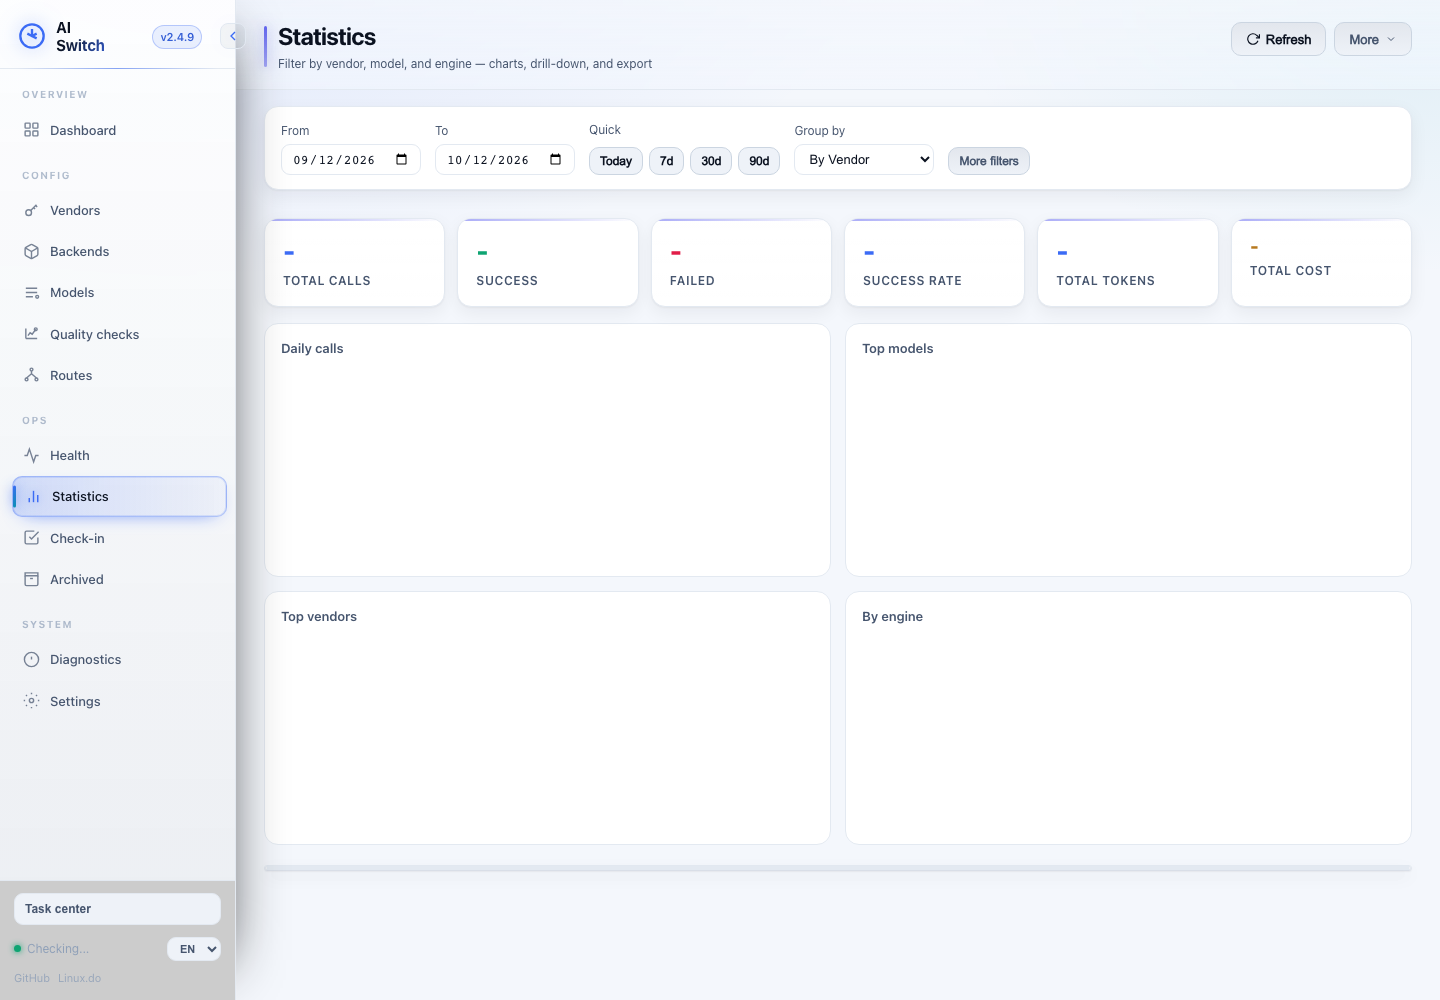
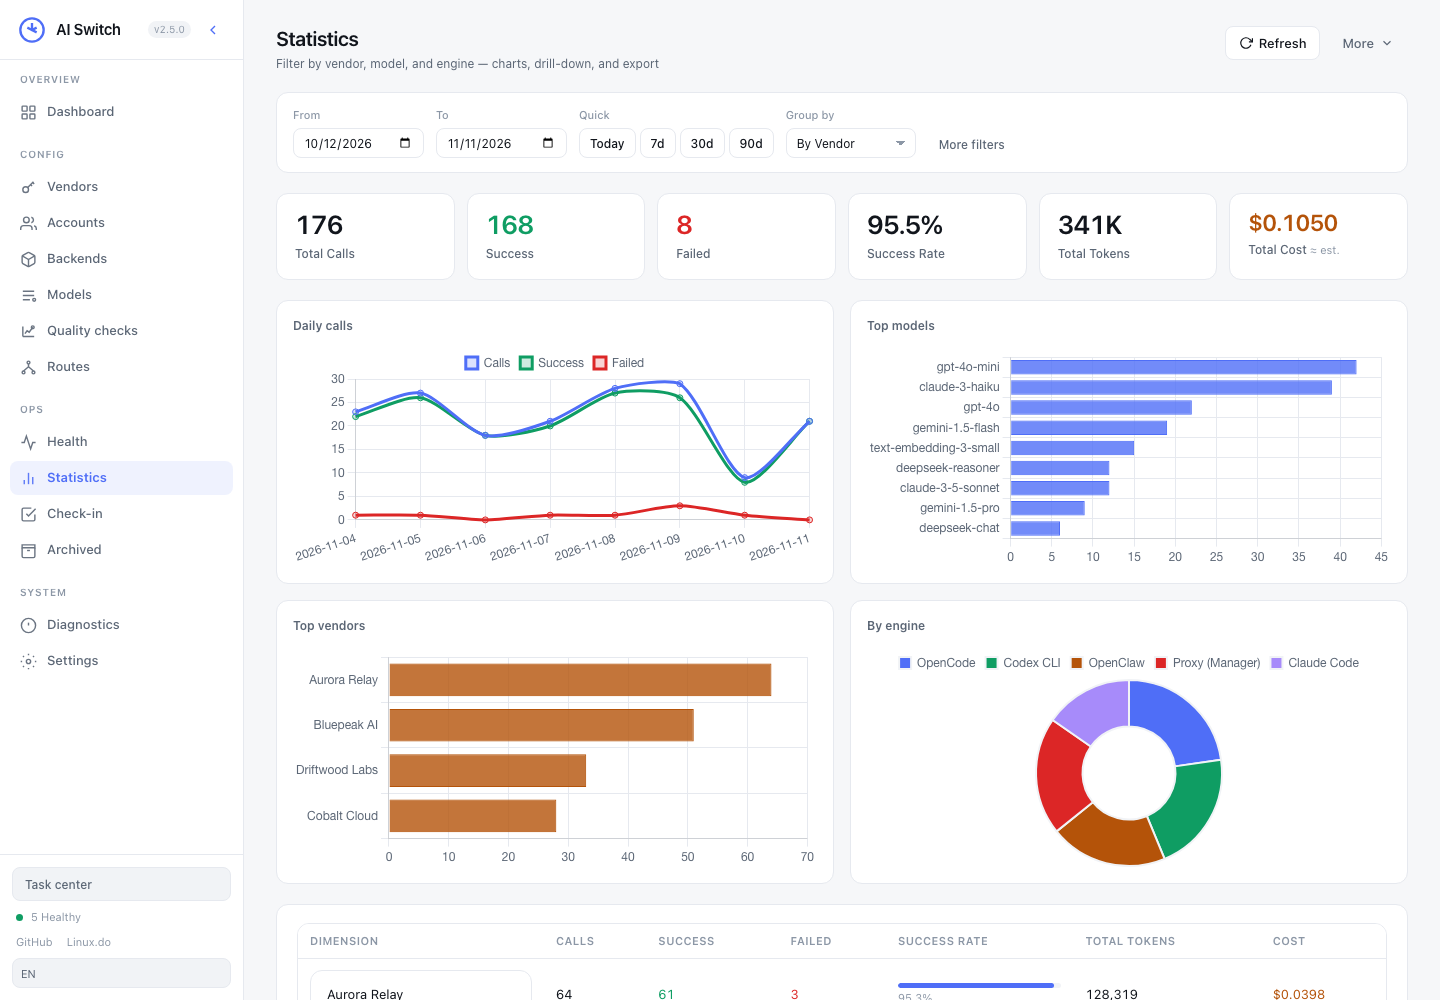
docs(readme): refresh screenshots with fictional demo data and captions
All 12 screenshots are re-captured against an isolated instance seeded
with invented vendors, keys and usage (no real data). Each image now has
a one-line caption, and the section states the demo-data provenance.

diff --git a/README.md b/README.md
@@ -48,12 +48,22 @@ If you juggle **relay / multi-vendor API keys** across **OpenClaw, OpenCode, Cod
 
 ## Screenshots
 
-<p align="center"><img src="docs/screenshots/01-dashboard.png" alt="Dashboard" width="800"></p>
+> All screenshots use an isolated demo instance with **fictional data** — no real vendors, keys, accounts or usage.
+
+<p align="center">
+  <img src="docs/screenshots/01-dashboard.png" alt="Dashboard" width="820"><br>
+  <sub><b>Dashboard</b> — vendor / key / health counters, today's calls and spend, the single next action to take, and recent audit activity.</sub>
+</p>
 
 <p align="center">
   <img src="docs/screenshots/02-vendors.png" alt="Vendors" width="390">
   &nbsp;
   <img src="docs/screenshots/03-backends.png" alt="Backends" width="390">
+</p>
+
+<p align="center">
+  <sub><b>Vendors</b> — tags, per-vendor key table with live status, model counts, balance and one-click actions.</sub><br>
+  <sub><b>Backends</b> — 19 supported engines with install / running state and per-engine sync config.</sub>
 </p>
 
 <p align="center">
@@ -63,9 +73,19 @@ If you juggle **relay / multi-vendor API keys** across **OpenClaw, OpenCode, Cod
 </p>
 
 <p align="center">
+  <sub><b>Models</b> — every model discovered on your keys: blended price, endpoints, key / vendor counts, enabled ratio and locations.</sub><br>
+  <sub><b>Quality checks</b> — deterministic 4-prompt benchmarks with per-vendor scores and re-run controls.</sub>
+</p>
+
+<p align="center">
   <img src="docs/screenshots/06-routes.png" alt="Routes" width="390">
   &nbsp;
   <img src="docs/screenshots/07-health.png" alt="Health monitor" width="390">
+</p>
+
+<p align="center">
+  <sub><b>Routes</b> — downstream OpenAI-compatible keys that aggregate healthy vendors, with auto or manual model selection.</sub><br>
+  <sub><b>Health</b> — scheduled monitoring, per-key status and latency, and a run history you can clear.</sub>
 </p>
 
 <p align="center">
@@ -75,12 +95,25 @@ If you juggle **relay / multi-vendor API keys** across **OpenClaw, OpenCode, Cod
 </p>
 
 <p align="center">
+  <sub><b>Statistics</b> — calls, success rate, tokens and cost, with daily trend, top models / vendors and the engine split.</sub><br>
+  <sub><b>Check-in</b> — vendors with a check-in URL or an access token; manual link vs automatic daily check-in.</sub>
+</p>
+
+<p align="center">
   <img src="docs/screenshots/10-archived.png" alt="Archived" width="390">
   &nbsp;
   <img src="docs/screenshots/11-diagnostics.png" alt="Diagnostics" width="390">
 </p>
 
-<p align="center"><img src="docs/screenshots/12-settings.png" alt="Settings" width="800"></p>
+<p align="center">
+  <sub><b>Archived</b> — archived vendors and single keys, hidden from every other view and excluded from checks, restorable in one click.</sub><br>
+  <sub><b>Diagnostics</b> — environment and backend JSON report plus the local audit log, for bug reports.</sub>
+</p>
+
+<p align="center">
+  <img src="docs/screenshots/12-settings.png" alt="Settings" width="820"><br>
+  <sub><b>Settings</b> — health schedule and adaptive intervals, on-disk key encryption, local access token, and usage budgets.</sub>
+</p>
 
 ---
 
